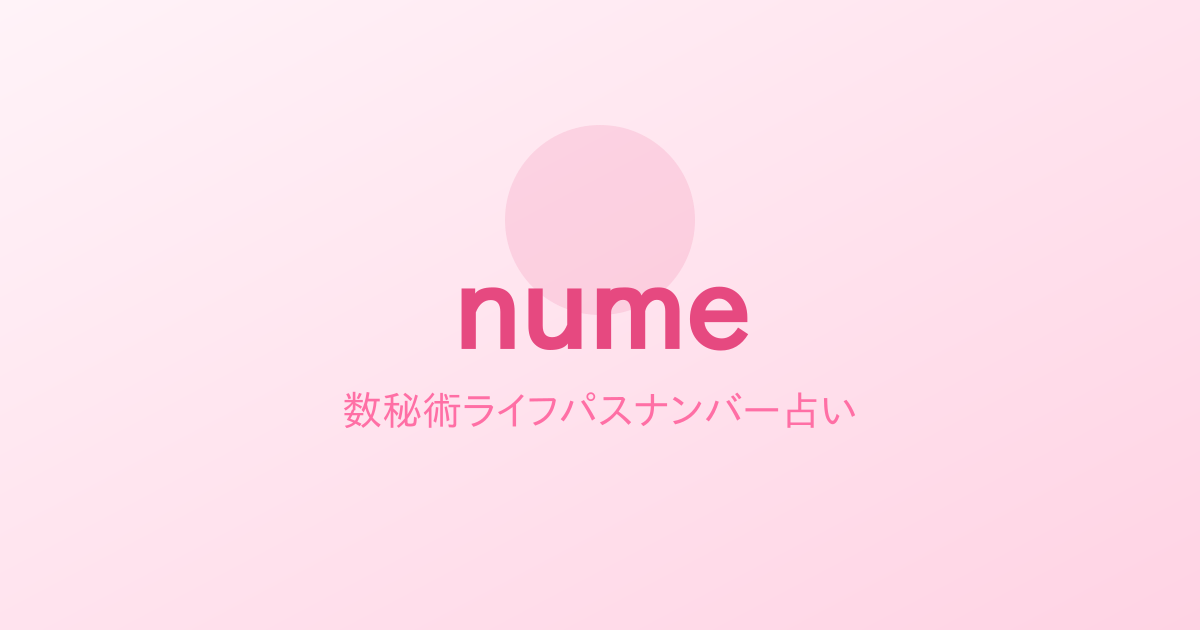
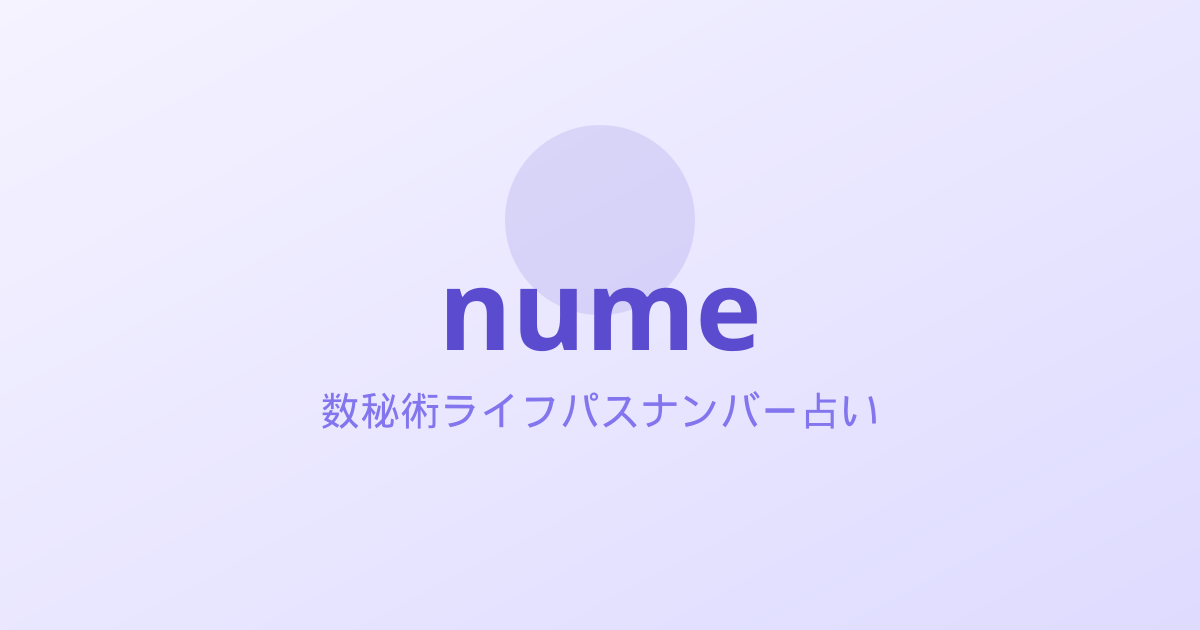
modify theme color

diff --git a/src/styles/global.css b/src/styles/global.css
@@ -3,15 +3,15 @@
 :root {
   --bg: #ffffff;
   --surface: #ffffff;
-  --surface-pink: #fdf2f7;
-  --border-subtle: #f0dbe6;
+  --surface-lavender: #f5f3ff;
+  --border-subtle: #e2def5;
   --text: #3a3a3a;
   --text-muted: #777777;
-  --accent-pink: #c71585;
-  --accent-pink-light: #d946a3;
-  --accent-pink-pale: #f3c6dd;
-  --accent-pink-deep: #8b0a50;
-  --input-bg: #faf5f8;
+  --accent-purple: #5b4bce;
+  --accent-purple-light: #8275ed;
+  --accent-purple-pale: #dedbff;
+  --accent-purple-deep: #352780;
+  --input-bg: #faf9ff;
   --footer-bg: #292929;
 }
 
@@ -48,7 +48,7 @@ body {
   align-items: center;
   justify-content: space-between;
   background: var(--bg);
-  color: var(--accent-pink);
+  color: var(--accent-purple);
   border-bottom: 1px solid var(--border-subtle);
 }
 
@@ -65,21 +65,21 @@ body {
   font-size: 13px;
   padding: 5px 12px;
   border-radius: 999px;
-  border: 1px solid var(--accent-pink-pale);
+  border: 1px solid var(--accent-purple-pale);
   background: #fff;
-  color: var(--accent-pink);
+  color: var(--accent-purple);
   transition: all 0.15s ease;
   font-weight: 600;
 }
 
 .reset-btn:active {
-  background: var(--surface-pink);
+  background: var(--surface-lavender);
   transform: scale(0.97);
 }
 
 /* Footer */
 .nume-footer {
-  background: #fdf4f8;
+  background: #f7f5ff;
   color: #999;
   padding: 16px;
   margin-top: 40px;
@@ -90,7 +90,7 @@ body {
 }
 
 .nume-footer a {
-  color: #e64980;
+  color: var(--accent-purple);
   text-decoration: underline;
 }
 
@@ -101,7 +101,7 @@ body {
   margin: 1.5rem 0;
   font-size: 15px;
   font-weight: 700;
-  color: var(--accent-pink);
+  color: var(--accent-purple);
 }
 
 .section-divider::before {
@@ -111,7 +111,7 @@ body {
   left: 0;
   right: 0;
   height: 1px;
-  background: linear-gradient(-45deg, transparent, var(--accent-pink-pale) 15%, var(--accent-pink-pale) 85%, transparent);
+  background: linear-gradient(-45deg, transparent, var(--accent-purple-pale) 15%, var(--accent-purple-pale) 85%, transparent);
   z-index: 1;
 }
 
@@ -132,10 +132,10 @@ body {
   border-radius: 0 0 28px 28px;
   overflow: hidden;
   background:
-    linear-gradient(160deg, rgba(199, 21, 133, 0.88) 0%, rgba(255, 111, 165, 0.82) 55%, rgba(255, 168, 201, 0.78) 100%),
+    linear-gradient(160deg, rgba(53, 39, 128, 0.90) 0%, rgba(91, 75, 206, 0.86) 55%, rgba(130, 117, 237, 0.80) 100%),
     url('/images/teller-hero-gemini.png') center 30% / cover no-repeat;
   color: #ffffff;
-  box-shadow: 0 6px 20px rgba(199, 21, 133, 0.22);
+  box-shadow: 0 6px 20px rgba(53, 39, 128, 0.22);
 }
 
 .hero-icon {
@@ -169,13 +169,13 @@ body {
 
 .birth-label {
   font-size: 13px;
-  color: var(--accent-pink);
+  color: var(--accent-purple);
   font-weight: 700;
 }
 
 .birth-input {
   width: 100%;
-  border: 1px solid var(--accent-pink-pale);
+  border: 1px solid var(--accent-purple-pale);
   border-radius: 16px;
   background: var(--input-bg);
   padding: 13px 12px;
@@ -187,8 +187,8 @@ body {
 }
 
 .birth-input:focus {
-  border-color: var(--accent-pink);
-  box-shadow: 0 0 0 3px rgba(199, 21, 133, 0.12);
+  border-color: var(--accent-purple);
+  box-shadow: 0 0 0 3px rgba(91, 75, 206, 0.14);
   background: #fff;
 }
 
@@ -203,7 +203,7 @@ body {
   font-weight: 700;
   text-align: center;
   margin-bottom: 18px;
-  color: var(--accent-pink);
+  color: var(--accent-purple);
 }
 
 .result-title::before {
@@ -213,7 +213,7 @@ body {
   left: 0;
   right: 0;
   height: 1px;
-  background: linear-gradient(-45deg, transparent, var(--accent-pink-pale) 15%, var(--accent-pink-pale) 85%, transparent);
+  background: linear-gradient(-45deg, transparent, var(--accent-purple-pale) 15%, var(--accent-purple-pale) 85%, transparent);
   z-index: 1;
 }
 
@@ -230,26 +230,26 @@ body {
   padding: 20px 16px;
   margin-bottom: 20px;
   border-radius: 24px;
-  border: 1px solid var(--accent-pink-pale);
-  background: var(--surface-pink);
-  box-shadow: 0 4px 18px rgba(199, 21, 133, 0.10);
+  border: 1px solid var(--accent-purple-pale);
+  background: var(--surface-lavender);
+  box-shadow: 0 4px 18px rgba(91, 75, 206, 0.10);
 }
 
 .number-hero-digit {
   font-size: 96px;
   font-weight: 800;
   line-height: 1;
-  background: linear-gradient(180deg, var(--accent-pink-light) 0%, var(--accent-pink-deep) 100%);
+  background: linear-gradient(180deg, var(--accent-purple-light) 0%, var(--accent-purple-deep) 100%);
   -webkit-background-clip: text;
   background-clip: text;
   color: transparent;
-  filter: drop-shadow(0 3px 10px rgba(199, 21, 133, 0.30));
+  filter: drop-shadow(0 3px 10px rgba(91, 75, 206, 0.30));
 }
 
 .number-hero-keyword {
   font-size: 18px;
   font-weight: 700;
-  color: var(--accent-pink);
+  color: var(--accent-purple);
   margin-top: 6px;
 }
 
@@ -267,9 +267,9 @@ body {
   color: var(--text);
   padding: 14px;
   border-radius: 14px;
-  background: #fdf4f8;
+  background: #f7f5ff;
   border: 1px solid var(--border-subtle);
-  border-left: 4px solid var(--accent-pink-pale);
+  border-left: 4px solid var(--accent-purple-pale);
   min-height: 80px;
 }
 
@@ -371,33 +371,33 @@ body {
 
 .retry-btn {
   background: #fff;
-  color: var(--accent-pink);
-  border: 1.5px solid var(--accent-pink);
+  color: var(--accent-purple);
+  border: 1.5px solid var(--accent-purple);
 }
 
 .retry-btn:active:not(:disabled) {
-  background: var(--surface-pink);
+  background: var(--surface-lavender);
 }
 
 .action-btn-secondary {
   background: #fff;
-  color: var(--accent-pink);
-  border: 1.5px solid var(--accent-pink);
+  color: var(--accent-purple);
+  border: 1.5px solid var(--accent-purple);
 }
 
 .action-btn-secondary:active:not(:disabled) {
-  background: var(--surface-pink);
+  background: var(--surface-lavender);
 }
 
 .action-btn-primary {
-  background: linear-gradient(to bottom, var(--accent-pink-light), var(--accent-pink));
+  background: linear-gradient(to bottom, var(--accent-purple-light), var(--accent-purple));
   color: #fff;
-  box-shadow: 0 3px 0 #c23568, 0 4px 10px rgba(199, 21, 133, 0.25);
+  box-shadow: 0 3px 0 #40339a, 0 4px 10px rgba(91, 75, 206, 0.25);
 }
 
 .action-btn-primary:active:not(:disabled) {
   transform: translateY(2px);
-  box-shadow: 0 1px 0 #c23568, 0 2px 6px rgba(199, 21, 133, 0.25);
+  box-shadow: 0 1px 0 #40339a, 0 2px 6px rgba(91, 75, 206, 0.25);
 }
 
 /* Mode tabs */
@@ -411,9 +411,9 @@ body {
   flex: 1;
   padding: 10px 0;
   border-radius: 999px;
-  border: 1.5px solid var(--accent-pink-pale);
+  border: 1.5px solid var(--accent-purple-pale);
   background: #fff;
-  color: var(--accent-pink);
+  color: var(--accent-purple);
   font-size: 14px;
   font-weight: 700;
   cursor: pointer;
@@ -425,10 +425,10 @@ body {
 }
 
 .mode-tab-active {
-  background: linear-gradient(to bottom, var(--accent-pink-light), var(--accent-pink));
+  background: linear-gradient(to bottom, var(--accent-purple-light), var(--accent-purple));
   color: #fff;
-  border-color: var(--accent-pink);
-  box-shadow: 0 2px 8px rgba(199, 21, 133, 0.25);
+  border-color: var(--accent-purple);
+  box-shadow: 0 2px 8px rgba(91, 75, 206, 0.25);
 }
 
 /* Number menu cards (input screen) */
@@ -447,7 +447,7 @@ body {
   border-radius: 18px;
   background: #fff;
   border: 1px solid var(--border-subtle);
-  box-shadow: 0 2px 10px rgba(199, 21, 133, 0.06);
+  box-shadow: 0 2px 10px rgba(91, 75, 206, 0.06);
   text-decoration: none;
   color: inherit;
   transition: transform 0.12s ease, box-shadow 0.12s ease;
@@ -455,7 +455,7 @@ body {
 
 .number-card:active {
   transform: scale(0.98);
-  box-shadow: 0 1px 6px rgba(199, 21, 133, 0.10);
+  box-shadow: 0 1px 6px rgba(91, 75, 206, 0.10);
 }
 
 .number-card-digit {
@@ -469,8 +469,8 @@ body {
   font-size: 26px;
   font-weight: 800;
   color: #fff;
-  background: linear-gradient(180deg, var(--accent-pink-light) 0%, var(--accent-pink-deep) 100%);
-  box-shadow: 0 2px 8px rgba(199, 21, 133, 0.30);
+  background: linear-gradient(180deg, var(--accent-purple-light) 0%, var(--accent-purple-deep) 100%);
+  box-shadow: 0 2px 8px rgba(91, 75, 206, 0.30);
 }
 
 .number-card-body {
@@ -497,7 +497,7 @@ body {
 
 .number-card-arrow {
   flex-shrink: 0;
-  color: var(--accent-pink-pale);
+  color: var(--accent-purple-pale);
   font-size: 20px;
   font-weight: 700;
 }
@@ -521,13 +521,13 @@ body {
 .compat-cross {
   font-size: 30px;
   font-weight: 800;
-  color: var(--accent-pink-light);
+  color: var(--accent-purple-light);
 }
 
 .compat-score {
   margin-top: 18px;
   padding-top: 16px;
-  border-top: 1px dashed var(--accent-pink-pale);
+  border-top: 1px dashed var(--accent-purple-pale);
 }
 
 .compat-score-label {
@@ -541,7 +541,7 @@ body {
   font-size: 40px;
   font-weight: 800;
   line-height: 1.2;
-  color: var(--accent-pink);
+  color: var(--accent-purple);
 }
 
 .compat-score-unit {
@@ -557,13 +557,13 @@ body {
   height: 10px;
   border-radius: 999px;
   background: #fff;
-  border: 1px solid var(--accent-pink-pale);
+  border: 1px solid var(--accent-purple-pale);
   overflow: hidden;
 }
 
 .compat-gauge-fill {
   height: 100%;
   border-radius: 999px;
-  background: linear-gradient(to right, var(--accent-pink-light), var(--accent-pink));
+  background: linear-gradient(to right, var(--accent-purple-light), var(--accent-purple));
   transition: width 0.8s ease;
 }
